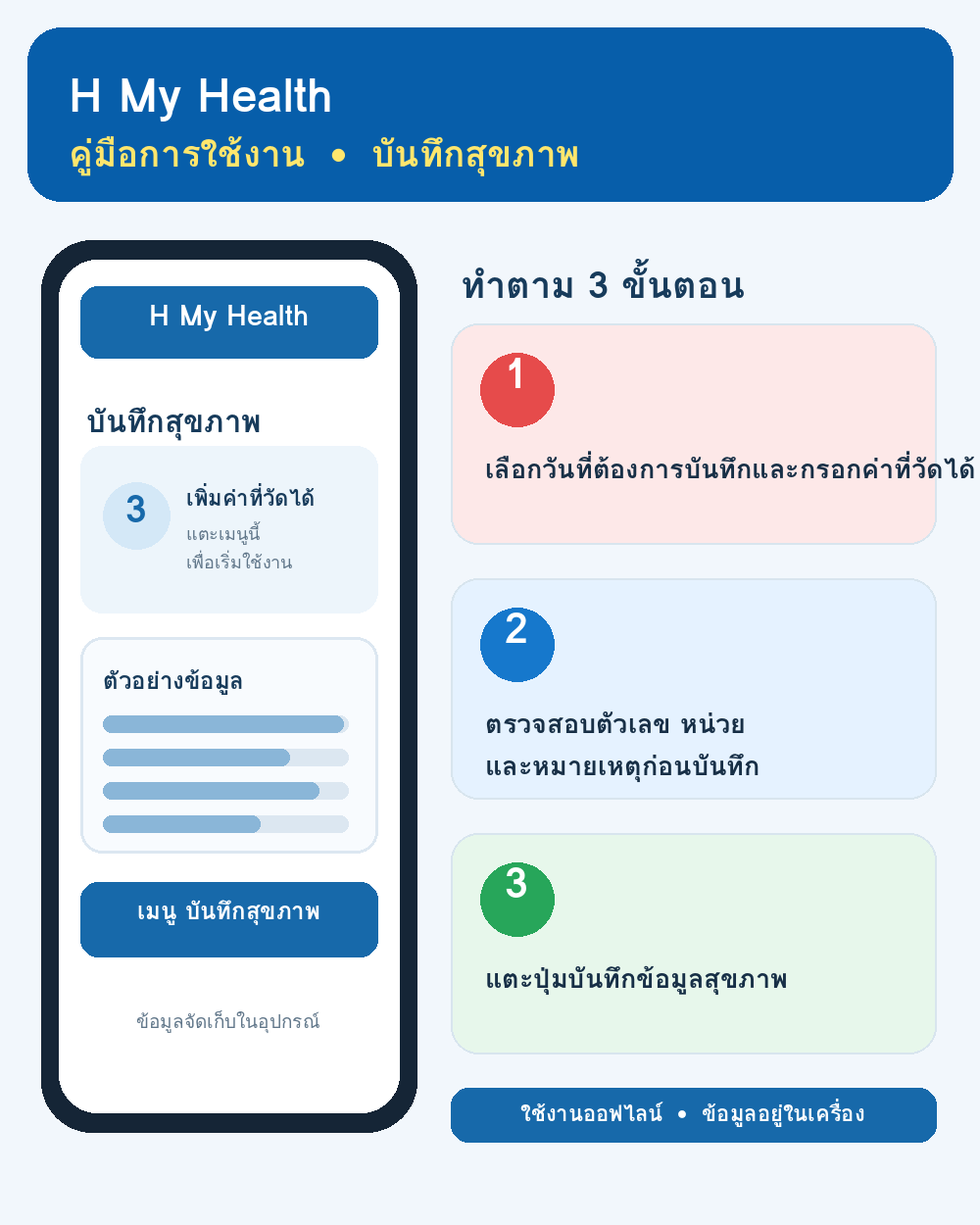
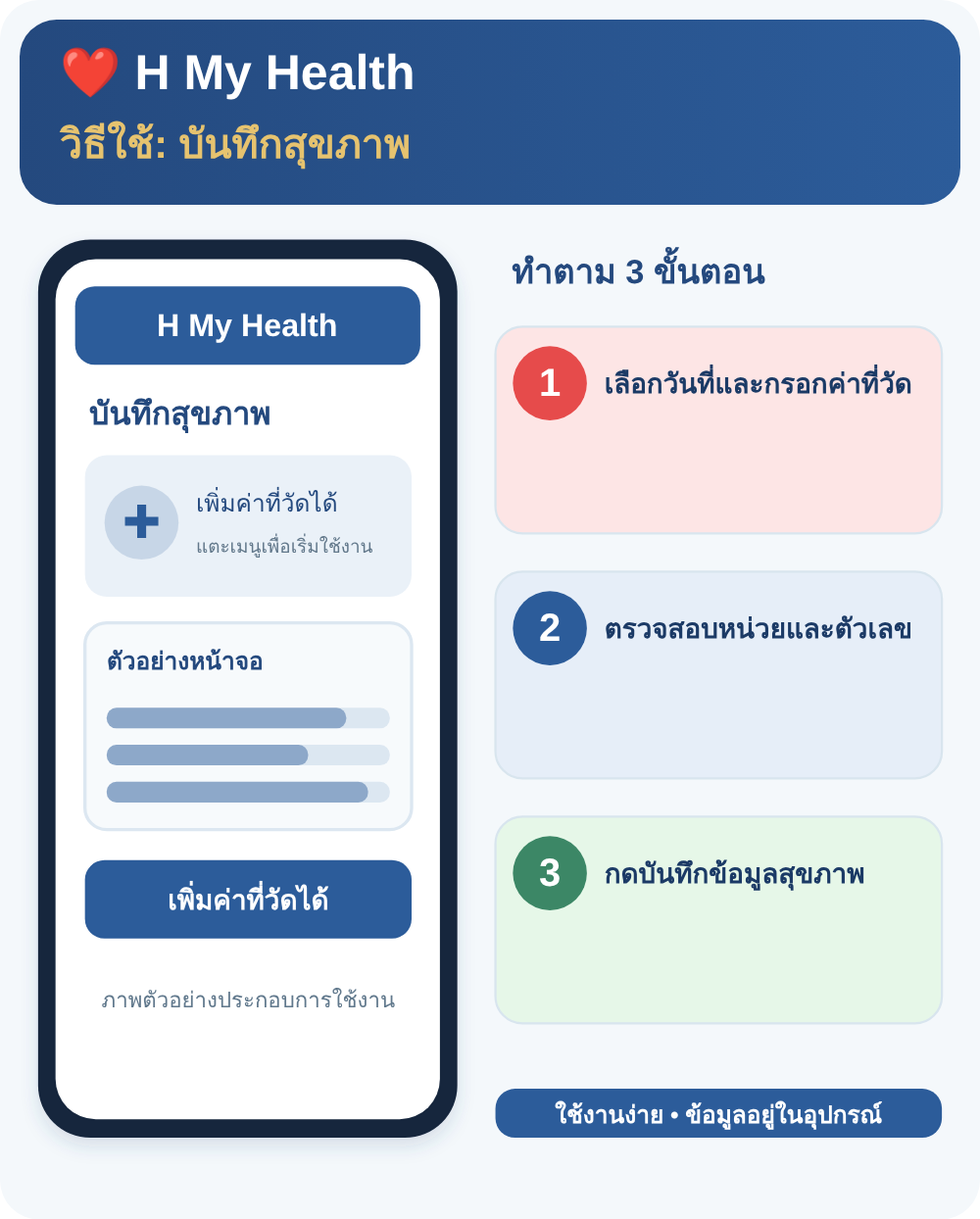
Add files via upload

diff --git a/index.html b/index.html
@@ -1,16 +1,16 @@
 <!doctype html>
-<html lang="th"><head><meta charset="utf-8"><meta name="viewport" content="width=device-width,initial-scale=1,maximum-scale=1">
-<meta name="theme-color" content="#0868c8"><meta name="mobile-web-app-capable" content="yes"><meta name="apple-mobile-web-app-capable" content="yes"><meta name="apple-mobile-web-app-status-bar-style" content="default"><meta name="apple-mobile-web-app-title" content="H My Health"><link rel="manifest" href="./manifest.webmanifest"><link rel="icon" type="image/svg+xml" href="./icon.svg"><link rel="icon" type="image/png" sizes="64x64" href="./favicon-64.png"><link rel="apple-touch-icon" sizes="180x180" href="./apple-touch-icon.png"><title>H My Health</title>
+<html lang="th"><head><meta charset="utf-8"><meta name="viewport" content="width=device-width,initial-scale=1,viewport-fit=cover">
+<meta name="theme-color" content="#24497e"><meta name="mobile-web-app-capable" content="yes"><meta name="apple-mobile-web-app-capable" content="yes"><meta name="apple-mobile-web-app-status-bar-style" content="black-translucent"><meta name="apple-mobile-web-app-title" content="H My Health"><link rel="manifest" href="./manifest.webmanifest"><link rel="icon" type="image/svg+xml" href="./icon.svg"><link rel="icon" type="image/png" sizes="64x64" href="./favicon-64.png"><link rel="apple-touch-icon" sizes="180x180" href="./apple-touch-icon.png"><title>H My Health</title>
 <style>
-*{box-sizing:border-box}body{margin:0;background:#f2f6fb;color:#172536;font-family:Arial,sans-serif;font-size:19px}
-header{background:#0868c8;color:white;padding:20px 18px 18px;border-radius:0 0 22px 22px}
+*{box-sizing:border-box}body{margin:0;background:#f4f8fb;color:#172536;font-family:Arial,sans-serif;font-size:19px}
+header{background:#2c5c9a;color:white;padding:20px 18px 18px;border-radius:0 0 22px 22px}
 h1{font-size:27px;margin:0 0 5px}header p{margin:0;font-size:19px;font-weight:700;line-height:1.4}.header-date{padding-top:5px}
 main{padding:14px;max-width:650px;margin:auto}.date{background:#e4f7e7;padding:15px;border-radius:16px;font-weight:bold;margin-bottom:12px}
 .card{background:white;border-radius:17px;padding:15px;margin:11px 0;box-shadow:0 2px 7px #17324d12}
 .row{display:flex;align-items:center;justify-content:space-between;gap:8px}.label{font-size:18px;font-weight:bold}.value{font-size:30px;font-weight:bold;margin-top:5px}
 .sub{font-size:15px;color:#586779}.tag{font-size:15px;padding:5px 9px;border-radius:9px;background:#eaf2ff}
 button{border:0;border-radius:14px;padding:15px 18px;font-size:20px;font-weight:bold;cursor:pointer}
-.primary{background:#0ab64b;color:white;width:100%;margin:8px 0}.blue{background:#0868c8;color:white}.light{background:#e8eef6;color:#172536}
+.primary{background:#3c8766;color:white;width:100%;margin:8px 0}.blue{background:#2c5c9a;color:white}.light{background:#e8eef6;color:#172536}
 nav{display:flex;gap:8px;margin-top:12px}nav button{flex:1;font-size:16px;padding:12px 4px}
 input,select{width:100%;font-size:20px;padding:13px;border:2px solid #d7e0eb;border-radius:12px;margin:6px 0 13px;background:white}
 label{font-weight:bold;display:block;margin-top:8px}.hidden{display:none}.alert{background:#fff0f0;border-left:7px solid #e53935}.ok{color:#16833d}.warn{color:#c36a00}.bad{color:#c62828}
@@ -26,7 +26,7 @@ canvas{width:100%;height:175px;display:block;background:#fff;border:1px solid #e
 @media print{header,nav,.no-print,button{display:none!important}body{background:#fff;font-size:13px}main{max-width:none;padding:0}.card{box-shadow:none;border:1px solid #ddd;break-inside:avoid}#reportView{display:block!important}.hidden{display:none!important}.report-grid{grid-template-columns:repeat(3,minmax(0,1fr))}canvas{max-height:150px}}
 
 /* One-page A4 clinician summary */
-.a4-head{display:flex;justify-content:space-between;gap:12px;align-items:flex-start;border-bottom:2px solid #1d5f9f;padding-bottom:7px;margin-bottom:9px}
+.a4-head{display:flex;justify-content:space-between;gap:12px;align-items:flex-start;border-bottom:2px solid #24497e;padding-bottom:7px;margin-bottom:9px}
 .a4-head h2{font-size:21px;margin:0 0 3px}
 .a4-meta{font-size:11px;color:#536273;text-align:right}
 .a4-stats{display:grid;grid-template-columns:repeat(3,minmax(0,1fr));gap:7px;margin:8px 0}
@@ -67,7 +67,7 @@ canvas{width:100%;height:175px;display:block;background:#fff;border:1px solid #e
 .metric-box .metric-unit{font-size:13px;font-weight:500}
 .metric-bp{background:#fff0f0;border-color:#e34b4b;color:#922626}
 .metric-pulse-bp{background:#fff4e6;border-color:#ed922d;color:#8a4b08}
-.metric-spo{background:#eaf4ff;border-color:#3185d6;color:#15528a}
+.metric-spo{background:#eaf4ff;border-color:#3185d6;color:#24497e}
 .metric-pulse-ox{background:#f1edff;border-color:#8064cf;color:#4e3a91}
 .metric-glucose{background:#fff8dc;border-color:#d3a51d;color:#74570a}
 .metric-temp{background:#e9f8ef;border-color:#39a66a;color:#17663a}
@@ -76,15 +76,15 @@ canvas{width:100%;height:175px;display:block;background:#fff;border:1px solid #e
 @media(max-width:390px){.history-metrics{grid-template-columns:1fr}.metric-box .metric-value{font-size:23px}}
 
 /* Professional dashboard refresh v4 */
-:root{--navy:#102a43;--blue:#1769aa;--teal:#0f8b8d;--bg:#f4f7fb;--line:#e4ebf2;--muted:#64748b}
+:root{--navy:#102a43;--blue:#2c5c9a;--teal:#0f8b8d;--bg:#f4f7fb;--line:#e4ebf2;--muted:#64748b}
 body{background:var(--bg);color:var(--navy);font-family:system-ui,-apple-system,"Segoe UI",Tahoma,sans-serif;font-size:17px;line-height:1.5}
-header{background:linear-gradient(125deg,#123b63 0%,#1769aa 58%,#168b91 100%);padding:22px 18px 20px;border-radius:0 0 24px 24px;box-shadow:0 8px 24px #123b6322}
+header{background:linear-gradient(125deg,#123b63 0%,#2c5c9a 58%,#3a7a93 100%);padding:22px 18px 20px;border-radius:0 0 24px 24px;box-shadow:0 8px 24px #123b6322}
 header h1{font-size:25px;letter-spacing:.1px}header p{font-size:14px;font-weight:500;opacity:.9}
 main{max-width:760px;padding:16px 15px 28px}
 nav{position:sticky;top:0;z-index:20;max-width:760px;margin:0 auto;padding:10px 14px;background:#f4f7fbef;backdrop-filter:blur(12px);border-bottom:1px solid #dce5ef;gap:7px;box-shadow:0 4px 14px #18344b0a}
 nav button{font-size:14px;padding:10px 7px;border-radius:12px;white-space:nowrap;min-height:42px}
 @media(max-width:520px){nav{gap:4px;padding:8px 6px}nav button{font-size:11px;padding:9px 3px;min-width:0}}
-nav button.blue{background:#1769aa;color:white;box-shadow:0 3px 9px #1769aa30}
+nav button.blue{background:#2c5c9a;color:white;box-shadow:0 3px 9px #2c5c9a30}
 nav button.light{background:white;color:#36536d;border:1px solid #dce5ef}
 .card{border:1px solid #e7edf3;border-radius:19px;padding:16px;margin:12px 0;box-shadow:0 5px 18px rgba(24,52,75,.055)}
 #home{padding-top:2px}
@@ -101,14 +101,14 @@ nav button.light{background:white;color:#36536d;border:1px solid #dce5ef}
 #home>.card:nth-of-type(6){border-top:4px solid #32a36a}
 .home-metrics{display:grid;grid-template-columns:repeat(2,minmax(0,1fr));gap:11px;margin:12px 0}
 .home-metrics .card{margin:0}
-.home-section-title{font-size:18px;font-weight:800;color:#173d5c;margin:19px 2px 8px}
+.home-section-title{font-size:18px;font-weight:800;color:#24497e;margin:19px 2px 8px}
 .home-actions{display:grid;grid-template-columns:1fr 1fr;gap:10px;margin:14px 0}
 .home-actions button{margin:0!important;min-height:52px;font-size:16px;padding:12px;border-radius:14px}
 .primary{background:linear-gradient(120deg,#0b9b70,#13ad83);box-shadow:0 5px 12px #0b9b7026}
-.blue{background:#1769aa}
+.blue{background:#2c5c9a}
 button{font-family:inherit;font-size:17px;border-radius:13px}
 input,select,textarea{font-family:inherit;font-size:18px;border:1.5px solid #d5e0ea;border-radius:13px}
-h2{font-size:21px;color:#173d5c}
+h2{font-size:21px;color:#24497e}
 .tag{background:#edf4fa;color:#49647c;font-size:12px;font-weight:700}
 .sub,.small{color:#687d90}
 #alerts{font-size:14px;line-height:1.55}
@@ -118,15 +118,15 @@ h2{font-size:21px;color:#173d5c}
 
 
 /* v5 focused forms and report layout */
-.page-intro{padding:7px 3px 12px}.page-intro .eyebrow{font-size:11px;letter-spacing:1.5px;font-weight:800;color:#16818b}.page-intro h2{font-size:24px;margin:3px 0 2px}.page-intro p{font-size:14px;color:#6a7d90;margin:0}
+.page-intro{padding:7px 3px 12px}.page-intro .eyebrow{font-size:11px;letter-spacing:1.5px;font-weight:800;color:#a9822f}.page-intro h2{font-size:24px;margin:3px 0 2px}.page-intro p{font-size:14px;color:#6a7d90;margin:0}
 .form-card{background:#fff;border:1px solid #e2eaf1;border-radius:18px;padding:17px;margin:12px 0;box-shadow:0 4px 15px rgba(24,52,75,.045)}
-.form-title{display:flex;align-items:center;gap:12px;margin-bottom:14px}.form-title h3,.report-controls h3,.report-section h3{font-size:17px;color:#173d5c;margin:0}.form-title p{font-size:13px;color:#738497;margin:2px 0 0}.form-icon{width:43px;height:43px;border-radius:14px;display:grid;place-items:center;background:#edf5fb;font-size:22px;flex:0 0 auto}
+.form-title{display:flex;align-items:center;gap:12px;margin-bottom:14px}.form-title h3,.report-controls h3,.report-section h3{font-size:17px;color:#24497e;margin:0}.form-title p{font-size:13px;color:#738497;margin:2px 0 0}.form-icon{width:43px;height:43px;border-radius:14px;display:grid;place-items:center;background:#edf5fb;font-size:22px;flex:0 0 auto}
 .bp-form{border-top:4px solid #df7777}.oxygen-form{border-top:4px solid #4d9bd0}.glucose-form{border-top:4px solid #d5ad3f}.temp-form{border-top:4px solid #45a879}
 .field-grid{display:grid;grid-template-columns:repeat(2,minmax(0,1fr));gap:2px 12px}.full-field{grid-column:1/-1}
 .form-card label{font-size:14px;color:#344e65;margin-top:5px}.form-card label small{font-weight:500;color:#7b8da0}.form-card input,.form-card textarea{font-size:17px;padding:13px;margin:6px 0 10px;border:1.5px solid #d6e1eb;background:#fbfdff}.form-card textarea{width:100%;resize:vertical;line-height:1.5}.form-card input:focus,.form-card textarea:focus{outline:3px solid #dceeff;border-color:#4d91c8}
 .entry-submit{margin:16px 0 28px}.entry-submit .primary{min-height:54px;font-size:17px}.entry-submit .small{text-align:center;margin-top:10px}
-.report-controls{padding:17px}.report-controls h3{margin-bottom:8px}.report-controls label{font-size:14px}.report-controls input{font-size:17px}.report-section{margin:19px 0}.report-section h3{margin:0 0 10px}.report-grid{gap:10px}.report-tile{border:1px solid #e4ebf2;background:#f8fbfe;padding:14px;border-radius:15px}.report-tile span{font-size:13px}.report-tile b{font-size:21px;color:#173d5c}.history-item{background:#f8fbfe;border:1px solid #e7edf3;border-radius:13px;padding:13px;margin:9px 0;line-height:1.7;font-size:14px;overflow-wrap:anywhere}
-.trend-details{background:#fff;border:1px solid #e2eaf1;border-radius:17px;padding:15px;margin:18px 0}.trend-details summary{font-size:16px;font-weight:800;color:#1769aa;cursor:pointer;padding:3px}.trend-card{background:#fbfdff;border:1px solid #e8eef4;border-radius:13px;padding:12px;margin:10px 0}.trend-card b{font-size:14px;color:#35536f}.trend-card canvas{margin-top:8px;height:150px}
+.report-controls{padding:17px}.report-controls h3{margin-bottom:8px}.report-controls label{font-size:14px}.report-controls input{font-size:17px}.report-section{margin:19px 0}.report-section h3{margin:0 0 10px}.report-grid{gap:10px}.report-tile{border:1px solid #e4ebf2;background:#f8fbfe;padding:14px;border-radius:15px}.report-tile span{font-size:13px}.report-tile b{font-size:21px;color:#24497e}.history-item{background:#f8fbfe;border:1px solid #e7edf3;border-radius:13px;padding:13px;margin:9px 0;line-height:1.7;font-size:14px;overflow-wrap:anywhere}
+.trend-details{background:#fff;border:1px solid #e2eaf1;border-radius:17px;padding:15px;margin:18px 0}.trend-details summary{font-size:16px;font-weight:800;color:#2c5c9a;cursor:pointer;padding:3px}.trend-card{background:#fbfdff;border:1px solid #e8eef4;border-radius:13px;padding:12px;margin:10px 0}.trend-card b{font-size:14px;color:#35536f}.trend-card canvas{margin-top:8px;height:150px}
 @media(max-width:420px){.field-grid{gap:0 8px}.form-card{padding:14px}.page-intro h2{font-size:22px}.report-grid{gap:8px}.report-tile{padding:11px}.report-tile b{font-size:18px}.trend-card canvas{height:130px}}
 @media print{.page-intro,.report-controls,.report-section,.trend-details{display:none!important}}
 /* v7 readable settings and developer page */
@@ -134,7 +134,7 @@ h2{font-size:21px;color:#173d5c}
 .settings-card{background:#fff;border:1px solid #e2eaf1;border-radius:18px;padding:16px;margin:12px 0;box-shadow:0 4px 15px rgba(24,52,75,.045)}
 .settings-title{display:flex;align-items:center;gap:11px;margin-bottom:12px}
 .settings-icon{width:42px;height:42px;display:grid;place-items:center;border-radius:13px;background:#edf5fb;font-size:21px;flex:0 0 auto}
-.settings-title h3{font-size:16px;margin:0;color:#173d5c}.settings-title p{font-size:12px;color:#738497;margin:2px 0 0}
+.settings-title h3{font-size:16px;margin:0;color:#24497e}.settings-title p{font-size:12px;color:#738497;margin:2px 0 0}
 .settings-grid{display:grid;grid-template-columns:repeat(2,minmax(0,1fr));gap:2px 12px}
 .settings-field label{font-size:13px;color:#344e65;margin-top:6px}.settings-field input{font-size:17px;padding:12px;margin:5px 0 9px;background:#fbfdff}
 .settings-hint{font-size:13px;line-height:1.55;color:#687d90;background:#f5f8fb;border-radius:11px;padding:10px 12px;margin:7px 0 0}
@@ -142,8 +142,8 @@ h2{font-size:21px;color:#173d5c}
 .permission-state{display:flex;align-items:center;gap:9px;padding:11px 12px;border-radius:12px;background:#f4f8fc;font-size:14px;color:#36536d;margin:10px 0}
 .permission-dot{width:10px;height:10px;border-radius:50%;background:#d69b2c;flex:0 0 auto}.permission-dot.on{background:#16a36a}
 .developer-card{overflow:hidden;text-align:center;padding:24px 18px;background:linear-gradient(145deg,#fff 0%,#eff7ff 100%);border:1px solid #dceaf7;border-radius:21px;box-shadow:0 5px 18px rgba(24,52,75,.06);margin:12px 0}
-.developer-avatar{width:76px;height:76px;border-radius:24px;margin:0 auto 13px;display:grid;place-items:center;background:linear-gradient(135deg,#1769aa,#168b91);color:#fff;font-size:34px;font-weight:800;box-shadow:0 7px 17px #1769aa30}
-.developer-name{font-size:22px;font-weight:850;color:#173d5c;margin:0 0 6px}.developer-role{display:inline-block;padding:6px 13px;border-radius:30px;background:#e5f2fb;color:#17608f;font-size:14px;font-weight:750;margin:4px 0 12px}
+.developer-avatar{width:76px;height:76px;border-radius:24px;margin:0 auto 13px;display:grid;place-items:center;background:linear-gradient(135deg,#2c5c9a,#3a7a93);color:#fff;font-size:34px;font-weight:800;box-shadow:0 7px 17px #2c5c9a30}
+.developer-name{font-size:22px;font-weight:850;color:#24497e;margin:0 0 6px}.developer-role{display:inline-block;padding:6px 13px;border-radius:30px;background:#e5f2fb;color:#24497e;font-size:14px;font-weight:750;margin:4px 0 12px}
 .developer-unit{font-size:16px;line-height:1.6;color:#526b80;font-weight:650}.developer-note{font-size:13px;color:#7b8da0;margin-top:20px;border-top:1px solid #e1eaf2;padding-top:13px}
 @media(max-width:420px){.settings-card{padding:14px}.settings-grid{gap:0 8px}.settings-field label{font-size:12px}.developer-card{padding:21px 14px}}
 
@@ -153,12 +153,12 @@ h2{font-size:21px;color:#173d5c}
 .med-editor{background:#f6f9fc;border:1px solid #e1eaf2;border-radius:15px;padding:14px;margin-top:12px}
 .med-fields{display:grid;grid-template-columns:1fr 1fr;gap:8px}.med-fields .wide{grid-column:1/-1}
 .med-list{display:flex;flex-direction:column;gap:10px;margin-top:12px}.med-item{border:1px solid #e1eaf2;border-radius:15px;padding:13px;background:#fff}
-.med-item-head{display:flex;justify-content:space-between;gap:8px;align-items:flex-start}.med-item h4{margin:0;color:#173d5c;font-size:17px}.med-time{display:inline-flex;background:#eaf4ff;color:#15528a;border-radius:9px;padding:5px 9px;margin:6px 5px 0 0;font-size:14px;font-weight:700}
+.med-item-head{display:flex;justify-content:space-between;gap:8px;align-items:flex-start}.med-item h4{margin:0;color:#24497e;font-size:17px}.med-time{display:inline-flex;background:#eaf4ff;color:#24497e;border-radius:9px;padding:5px 9px;margin:6px 5px 0 0;font-size:14px;font-weight:700}
 .med-actions{display:flex;gap:7px;margin-top:9px}.med-actions button{font-size:13px;padding:8px 11px}.med-empty{padding:15px;text-align:center;background:#f5f8fc;border-radius:12px;color:#64748b}
 .report-reading{background:#fff;border:1px solid #e2eaf1;border-radius:16px;padding:14px;margin:10px 0;box-shadow:0 3px 12px rgba(24,52,75,.04)}
-.report-reading-head{display:flex;justify-content:space-between;align-items:center;gap:8px;flex-wrap:wrap;margin-bottom:10px;font-weight:800;color:#173d5c}
+.report-reading-head{display:flex;justify-content:space-between;align-items:center;gap:8px;flex-wrap:wrap;margin-bottom:10px;font-weight:800;color:#24497e}
 .report-reading-grid{display:grid;grid-template-columns:repeat(2,minmax(0,1fr));gap:8px}
-.report-value{padding:10px;border-radius:12px;background:#f3f7fb;min-width:0}.report-value b{display:block;font-size:22px;color:#173d5c;overflow-wrap:anywhere}.report-value span{font-size:13px;color:#64748b}
+.report-value{padding:10px;border-radius:12px;background:#f3f7fb;min-width:0}.report-value b{display:block;font-size:22px;color:#24497e;overflow-wrap:anywhere}.report-value span{font-size:13px;color:#64748b}
 @media(max-width:390px){.med-fields,.report-reading-grid{grid-template-columns:1fr}.med-fields .wide{grid-column:auto}}
 
 
@@ -171,17 +171,90 @@ h2{font-size:21px;color:#173d5c}
 .install-dialog h2{margin:0 0 8px;font-size:22px}.install-dialog p{margin:6px 0 14px;line-height:1.55;color:#536779}
 .install-actions{display:grid;gap:9px}.install-actions button{width:100%;min-height:48px;font-weight:800}.install-later{background:#eef3f8;color:#30475d}
 .install-badge{font-size:36px;margin-bottom:5px}.install-help-steps{background:#f1f7fc;border-radius:14px;padding:12px;margin:10px 0;font-size:14px;line-height:1.6}
-.guide-grid{display:grid;grid-template-columns:1fr;gap:14px}.guide-card{background:#fff;border:1px solid #dce7f1;border-radius:20px;padding:16px}.guide-card h3{margin:4px 0 8px;color:#173d5c}.guide-card img{display:block;width:100%;height:auto;max-height:none;object-fit:contain;background:#f2f7fc;border-radius:14px}.guide-card ol{padding-left:22px;color:#40566b;line-height:1.65}.appt-item{background:#fff;border:1px solid #dce7f1;border-radius:15px;padding:13px}.appt-item h4{margin:0 0 6px;color:#173d5c}.appt-meta{font-size:14px;color:#526b80;line-height:1.6}
+.guide-grid{display:grid;grid-template-columns:1fr;gap:14px}.guide-card{background:#fff;border:1px solid #dce7f1;border-radius:20px;padding:16px}.guide-card h3{margin:4px 0 8px;color:#24497e}.guide-card img{display:block;width:100%;height:auto;max-height:none;object-fit:contain;background:#f2f7fc;border-radius:14px}.guide-card ol{padding-left:22px;color:#40566b;line-height:1.65}.appt-item{background:#fff;border:1px solid #dce7f1;border-radius:15px;padding:13px}.appt-item h4{margin:0 0 6px;color:#24497e}.appt-meta{font-size:14px;color:#526b80;line-height:1.6}
 
 #healthAlertModal{display:none;position:fixed;inset:0;z-index:9999;background:rgba(12,28,45,.62);padding:18px;align-items:center;justify-content:center}
 #healthAlertModal.open{display:flex}.health-alert-box{width:min(100%,520px);max-height:85vh;overflow:auto;background:#fff;border-radius:22px;padding:24px;box-shadow:0 18px 55px #0005;border-top:7px solid #d94b45;text-align:center}.health-alert-box h2{color:#a52d2d;font-size:25px}.health-alert-box p{font-size:18px;line-height:1.6;color:#34465a;text-align:left}.health-alert-box button{width:100%;margin-top:10px}
 #appUpdateModal{display:none;position:fixed;inset:0;z-index:10001;background:rgba(12,28,45,.62);padding:18px;align-items:center;justify-content:center}
-#appUpdateModal.open{display:flex}.app-update-box{width:min(100%,480px);background:#fff;border-radius:22px;padding:24px;box-shadow:0 18px 55px #0005;text-align:center}.app-update-box h2{color:#155b91}.app-update-box p{line-height:1.6;color:#43566a}.app-update-box button{width:100%;margin-top:9px}
+#appUpdateModal.open{display:flex}.app-update-box{width:min(100%,480px);background:#fff;border-radius:22px;padding:24px;box-shadow:0 18px 55px #0005;text-align:center}.app-update-box h2{color:#24497e}.app-update-box p{line-height:1.6;color:#43566a}.app-update-box button{width:100%;margin-top:9px}
 .update-status{font-size:14px;line-height:1.55;color:#52677b;background:#f1f7fc;border-radius:12px;padding:11px 13px;margin:10px 0}.update-status.ok{background:#eaf8ef;color:#176b3a}.update-status.warn{background:#fff5e8;color:#8a4b08}.update-menu-btn{white-space:nowrap}
+
+/* ===== V12 : navy / blue / gold / green, bottom tab bar ===== */
+:root{--navy:#24497e;--blue:#2c5c9a;--teal:#3a7a93;--gold:#cfa551;--green:#3c8766;--bg:#f4f8fb}
+body{background:var(--bg);-webkit-text-size-adjust:100%}
+header{background:linear-gradient(135deg,#1f3f70 0%,#24497e 55%,#2c5c9a 100%);border-radius:0 0 24px 24px;border-bottom:3px solid var(--gold);padding:calc(14px + env(safe-area-inset-top)) 18px 16px}
+.brand{display:flex;align-items:center;gap:12px}.brand img{width:50px;height:50px;flex:0 0 auto;filter:drop-shadow(0 3px 6px rgba(0,0,0,.25))}
+header h1{font-size:25px;margin:0 0 2px;letter-spacing:.2px}header .header-date{font-size:15px;font-weight:600;opacity:.92;margin:0}
+main{padding-bottom:128px}
+.blue{background:var(--blue)}.primary{background:var(--green)}.light{background:#e7eef6;color:var(--navy)}
+.page-intro .eyebrow{color:#a9822f}.page-intro h2{color:var(--navy)}
+.card{box-shadow:0 3px 12px rgba(36,73,126,.08)}
+.date{background:#e6f1ec;color:var(--green)}
+input:focus,select:focus,textarea:focus{outline:3px solid rgba(207,165,81,.45);border-color:var(--gold)}
+/* bottom tab bar */
+nav.tabbar{position:fixed;top:auto;left:0;right:0;bottom:0;max-width:none;border-bottom:0;backdrop-filter:none;-webkit-backdrop-filter:none;z-index:50;display:flex;align-items:flex-end;justify-content:space-around;gap:2px;margin:0;background:#fff;border-radius:24px 24px 0 0;box-shadow:0 -8px 28px rgba(36,73,126,.14);padding:8px max(8px,calc((100% - 650px)/2)) calc(8px + env(safe-area-inset-bottom))}
+nav.tabbar button{position:relative;flex:1 1 0;min-width:0;display:flex;flex-direction:column;align-items:center;justify-content:center;gap:3px;background:transparent;color:#5c6f86;border-radius:16px;padding:8px 2px 7px;font-size:13px;font-weight:700;line-height:1.1}
+nav.tabbar button svg{width:26px;height:26px;fill:none;stroke:currentColor;stroke-width:2;stroke-linecap:round;stroke-linejoin:round}
+nav.tabbar button svg .f{fill:currentColor;stroke:none}
+nav.tabbar button{border:0;min-height:0;white-space:normal;box-shadow:none}
+nav.tabbar button.active{background:var(--blue);color:#fff;box-shadow:0 3px 9px rgba(44,92,154,.3)}
+nav.tabbar button.active::after{content:"";position:absolute;bottom:4px;width:22px;height:3px;border-radius:3px;background:var(--gold)}
+nav.tabbar button.active span{margin-bottom:5px}
+nav.tabbar .tab-fab{background:transparent!important;color:var(--navy);overflow:visible;padding-top:0}
+nav.tabbar .tab-fab::after{display:none}
+nav.tabbar .tab-fab .fab{width:64px;height:64px;border-radius:50%;margin-top:-34px;display:grid;place-items:center;background:linear-gradient(145deg,#ecd08a,#cfa551 60%,#b98a32);border:5px solid #fff;box-shadow:0 8px 18px rgba(185,138,50,.45);color:var(--navy)}
+nav.tabbar .tab-fab .fab svg{width:30px;height:30px;stroke-width:3.2}
+nav.tabbar .tab-fab.active .fab{box-shadow:0 8px 22px rgba(185,138,50,.7)}
+nav.tabbar .tab-fab.active span{color:var(--navy)}
+.dot{position:absolute;top:5px;left:calc(50% + 8px);width:11px;height:11px;border-radius:50%;background:#e53935;border:2px solid #fff;display:none}
+.has-update .dot{display:block}
+/* more sheet */
+#moreSheet{display:none;position:fixed;inset:0;z-index:9000;background:rgba(14,30,52,.5);align-items:flex-end;justify-content:center}
+#moreSheet.open{display:flex}
+.more-box{width:min(100%,650px);background:#fff;border-radius:26px 26px 0 0;padding:10px 16px calc(96px + env(safe-area-inset-bottom));box-shadow:0 -10px 40px rgba(0,0,0,.25)}
+.more-grip{width:44px;height:5px;border-radius:5px;background:#d3dce8;margin:2px auto 12px}
+.more-box h3{margin:0 4px 8px;font-size:19px;color:var(--navy)}
+.more-item{display:flex;align-items:center;gap:14px;width:100%;text-align:left;background:#f4f8fb;color:var(--navy);border-radius:16px;padding:13px 14px;margin:8px 0;font-size:18px;border:1px solid #e1eaf3}
+.more-item .mi{width:42px;height:42px;border-radius:13px;display:grid;place-items:center;background:#fff;font-size:22px;box-shadow:0 2px 6px rgba(36,73,126,.1);flex:0 0 auto}
+.more-item small{display:block;font-size:13px;font-weight:500;color:#667a90;margin-top:2px}
+.new-badge{display:none;background:#e53935;color:#fff;font-size:12px;font-weight:800;border-radius:20px;padding:3px 9px;margin-left:8px;vertical-align:middle}
+.has-update .new-badge{display:inline-block}
+/* update banner */
+#updateBanner{display:none;align-items:center;gap:10px;margin:12px 14px 0;padding:11px 13px;border-radius:16px;background:#fff7e0;border:2px solid var(--gold);color:#6b4a07;max-width:622px}
+@media(min-width:650px){#updateBanner{margin-left:auto;margin-right:auto}}
+.has-update #updateBanner{display:flex}
+#updateBanner .ub-text{flex:1;font-size:15px;font-weight:700;line-height:1.35;cursor:pointer}
+#updateBanner button{padding:10px 14px;font-size:15px;border-radius:12px;background:var(--navy);color:#fff;flex:0 0 auto}
+/* developer page */
+.dev-v12{padding:0;background:#fff;border:1px solid #dfe8f2;border-radius:24px;overflow:hidden;box-shadow:0 6px 22px rgba(36,73,126,.1)}
+.dev-hero{position:relative;height:300px;background:linear-gradient(180deg,#dfeaf6 0%,#f4f8fb 100%);border-bottom:5px solid var(--gold);display:flex;align-items:flex-end;justify-content:center;overflow:hidden}
+.dev-ring{position:absolute;left:50%;top:50%;width:270px;height:270px;border-radius:50%;transform:translate(-50%,-50%);border:3px dashed rgba(207,165,81,.8)}
+.dev-hero img{position:relative;height:285px;width:auto;max-width:100%;object-fit:contain;margin-bottom:-4px}
+.dev-body{padding:22px 18px 22px;text-align:center}
+.dev-v12 .developer-name{font-size:27px;color:var(--navy);margin:0 0 10px}
+.dev-v12 .developer-role{background:linear-gradient(135deg,#24497e,#2c5c9a);color:#fff;font-size:17px;padding:10px 24px;border-radius:30px;box-shadow:0 6px 14px rgba(36,73,126,.28);margin:0 0 18px}
+.dev-app{display:flex;align-items:center;gap:14px;text-align:left;background:#f4f8fb;border:1px solid #dfe8f2;border-radius:20px;padding:14px;margin:6px 0 16px}
+.dev-app .dev-app-ico{width:52px;height:52px;border-radius:16px;background:#fff;display:grid;place-items:center;font-size:28px;box-shadow:0 2px 8px rgba(36,73,126,.1)}
+.dev-app small{display:block;font-size:14px;color:#667a90}.dev-app b{font-size:22px;color:var(--navy)}
+.dev-v12 .developer-note{border-top:1px solid #e1eaf2;padding-top:14px;margin-top:6px;font-size:15px;line-height:1.55;color:#5a6e84}
+.dev-v12 .developer-note b{color:var(--navy);font-size:17px}
+#updateSettingsCard h3{color:var(--navy)}
+/* update modal accents */
+.app-update-box h2{color:var(--navy)}#applyAppUpdate{background:var(--navy);color:#fff}
+@media print{nav.tabbar,#updateBanner,#moreSheet{display:none!important}main{padding-bottom:0!important}}
+/* print fix: the A4 summary lives inside .report-controls, which older print CSS hid -> blank page */
+@media print{
+ #reportView .report-controls{display:block!important;border:0!important;box-shadow:none!important;background:none!important;padding:0!important;margin:0!important}
+ #reportView .report-controls>*:not(#a4Report){display:none!important}
+ #reportView .report-controls #a4Report{display:block!important}
+ @page{size:A4;margin:10mm}
+}
 </style></head><body>
 <div id="appUpdateModal" class="no-print" role="dialog" aria-modal="true" aria-labelledby="appUpdateTitle"><div class="app-update-box"><div style="font-size:38px">🔄</div><h2 id="appUpdateTitle">มีเวอร์ชันใหม่ของ H My Health</h2><p>อัปเดตแอปได้ทันทีโดยไม่ต้องลบหรือติดตั้งใหม่ ข้อมูลสุขภาพที่บันทึกไว้ในเครื่องจะไม่ถูกลบ</p><button id="applyAppUpdate" class="blue" type="button">อัปเดตตอนนี้</button><button id="laterAppUpdate" class="light" type="button">ไว้ภายหลัง</button></div></div>
-<header><h1>❤ H My Health</h1><p id="headerDate" class="header-date"></p></header>
-<nav><button class="blue" onclick="show('home')">หน้าหลัก</button><button class="light" onclick="show('profile')">ผู้ใช้งาน</button><button class="light" onclick="show('history')">ประวัติ</button><button class="light" onclick="show('settings')">ตั้งค่า</button><button class="light" onclick="show('appointments')">นัดตรวจ</button><button class="light" onclick="show('guide')">วิธีใช้งาน</button><button class="light" onclick="show('developer')">ผู้พัฒนา</button></nav>
+<header><div class="brand"><img src="./icon.svg" alt="" width="50" height="50"><div><h1>H My Health</h1><p id="headerDate" class="header-date"></p></div></div></header>
+<div id="updateBanner" class="no-print" role="status"><span class="ub-text" onclick="openUpdateModal()">🔄 มีเวอร์ชันใหม่ของ H My Health พร้อมอัปเดต</span><button type="button" id="bannerApply" onclick="openUpdateModal()">อัปเดต</button></div>
+<nav class="tabbar no-print" aria-label="เมนูหลัก"><button type="button" id="tab-home" onclick="show('home')"><svg viewBox="0 0 24 24"><path d="M3 11.5 12 4l9 7.5"/><path d="M5.5 10v9.5h13V10"/><path d="M10 19.5v-5h4v5"/></svg><span>หน้าหลัก</span></button><button type="button" id="tab-history" onclick="show('history')"><svg viewBox="0 0 24 24"><circle cx="12" cy="12" r="9"/><path d="M12 7v5l3.5 2"/></svg><span>ประวัติ</span></button><button type="button" id="tab-entry" class="tab-fab" onclick="show('entry')"><i class="fab"><svg viewBox="0 0 24 24"><path d="M12 5v14M5 12h14"/></svg></i><span>บันทึก</span></button><button type="button" id="tab-report" onclick="show('reportView')"><svg viewBox="0 0 24 24"><path d="M6 3h8l4 4v14H6z"/><path d="M14 3v4h4"/><path d="M9 18v-3M12 18v-5M15 18v-2"/></svg><span>รายงาน</span></button><button type="button" id="tab-more" onclick="openMore()"><svg viewBox="0 0 24 24"><circle class="f" cx="5" cy="12" r="2"/><circle class="f" cx="12" cy="12" r="2"/><circle class="f" cx="19" cy="12" r="2"/></svg><span>เพิ่มเติม</span><b class="dot" id="moreDot"></b></button></nav>
+<div id="moreSheet" class="no-print" onclick="if(event.target===this)closeMore()"><div class="more-box" role="dialog" aria-label="เมนูเพิ่มเติม"><div class="more-grip"></div><h3>เมนูเพิ่มเติม</h3><button type="button" class="more-item" onclick="show('profile')"><span class="mi">👤</span><span>ผู้ใช้งาน<small>ข้อมูลส่วนตัว ยา ข้อมูลฉุกเฉิน</small></span></button><button type="button" class="more-item" onclick="show('appointments')"><span class="mi">📅</span><span>นัดตรวจ<small>วัน เวลา และการเตือนล่วงหน้า</small></span></button><button type="button" class="more-item" onclick="show('settings')"><span class="mi">⚙</span><span>ตั้งค่า<small>เกณฑ์เฝ้าระวัง PIN สำรองข้อมูล</small></span></button><button type="button" class="more-item" onclick="show('guide')"><span class="mi">📖</span><span>วิธีใช้งาน<small>คู่มือพร้อมภาพประกอบ</small></span></button><button type="button" class="more-item" onclick="show('developer')"><span class="mi">🧑⚕</span><span>ผู้พัฒนา<span class="new-badge">ใหม่</span><small>ข้อมูลผู้จัดทำและตรวจสอบอัปเดต</small></span></button></div></div>
 <div id="installPanel" class="card no-print" style="margin:12px 14px;padding:13px;border:2px solid #b8d8f5;display:none">
  <div style="font-weight:800;font-size:18px">📲 ติดตั้ง H My Health ลงเครื่อง</div>
  <div id="installHelp" class="small" style="margin:5px 0 9px">ติดตั้งเพื่อเพิ่มไอคอนไว้ที่หน้าจอ แล้วแตะเข้าใช้งานได้สะดวก</div>
@@ -346,11 +419,18 @@ h2{font-size:21px;color:#173d5c}
 <h3>รายการนัดหมาย</h3><div id="appointmentList" class="med-list"></div><button class="light" style="width:100%" onclick="show('home')">กลับหน้าหลัก</button>
 </section>
 <section id="guide" class="hidden"><div class="page-intro"><span class="eyebrow">USER GUIDE</span><h2>วิธีการใช้งาน H My Health</h2><p>แต่ละเมนูมีภาพประกอบแยกและขั้นตอนการใช้งาน</p></div><div id="guideCards" class="guide-grid"></div><button class="light" style="width:100%;margin-top:12px" onclick="show('home')">กลับหน้าหลัก</button></section>
-\n<section id="developer" class="hidden developer-page">
- <div class="page-intro"><span class="eyebrow">APPLICATION INFORMATION</span><h2>ผู้พัฒนาแอปพลิเคชัน</h2><p>ข้อมูลผู้จัดทำและหน่วยงาน</p></div>
- <div class="developer-card"><div class="developer-avatar">T</div><p class="developer-name">นายแทน นามวงค์</p><div class="developer-role">ผู้ช่วยพยาบาล</div><div class="developer-unit">หอผู้ป่วยโรคหลอดเลือดสมอง</div><div class="developer-note">H My Health<br>แอปพลิเคชันสำหรับบันทึกและติดตามข้อมูลสุขภาพส่วนบุคคล</div></div>
- <div class="security-card" id="updateSettingsCard"><h3>🔄 อัปเดต H My Health</h3><p>แอปจะตรวจสอบเวอร์ชันใหม่ให้อัตโนมัติเมื่อเปิดใช้งานและเมื่อเชื่อมต่ออินเทอร์เน็ต หากพบเวอร์ชันใหม่จะแสดงหน้าต่างแจ้งเตือน ข้อมูลสุขภาพในอุปกรณ์จะไม่ถูกลบ</p><div id="appUpdateStatus" class="update-status" role="status" aria-live="polite">ระบบตรวจสอบเวอร์ชันใหม่อัตโนมัติ</div><button class="blue" style="width:100%;min-height:48px" type="button" onclick="checkAppUpdate(true)">ตรวจสอบเวอร์ชันใหม่</button></div>
- <button class="light" style="width:100%" onclick="show('home')">กลับหน้าหลัก</button>
+<section id="developer" class="hidden developer-page">
+ <div class="page-intro"><span class="eyebrow">APPLICATION INFORMATION</span><h2>ผู้พัฒนาแอปพลิเคชัน</h2><p>ข้อมูลผู้จัดทำ</p></div>
+ <div class="developer-card dev-v12">
+  <div class="dev-hero"><div class="dev-ring"></div><img src="./developer-character.png" alt="ผู้ช่วยพยาบาลผู้พัฒนาแอป"></div>
+  <div class="dev-body">
+   <p class="developer-name">นายแทน นามวงค์</p><div class="developer-role">ผู้ช่วยพยาบาล</div>
+   <div class="dev-app"><span class="dev-app-ico">📱</span><div><small>แอปพลิเคชัน</small><b>H My Health</b></div></div>
+   <div class="developer-note"><b>H My Health · เวอร์ชัน 12</b><br>แอปพลิเคชันสำหรับบันทึกและติดตามข้อมูลสุขภาพส่วนบุคคล</div>
+  </div>
+ </div>
+ <div class="security-card" id="updateSettingsCard"><h3>🔄 อัปเดต H My Health<span class="new-badge">ใหม่</span></h3><p>แอปจะตรวจสอบเวอร์ชันใหม่ให้อัตโนมัติเมื่อเปิดใช้งานและเมื่อเชื่อมต่ออินเทอร์เน็ต หากพบเวอร์ชันใหม่จะแสดงแถบแจ้งเตือนทุกหน้าและหน้าต่างให้เลือกอัปเดต ข้อมูลสุขภาพในอุปกรณ์จะไม่ถูกลบ</p><div id="appUpdateStatus" class="update-status" role="status" aria-live="polite">ระบบตรวจสอบเวอร์ชันใหม่อัตโนมัติ</div><button class="blue" style="width:100%;min-height:48px" type="button" onclick="checkAppUpdate(true)">ตรวจสอบเวอร์ชันใหม่</button></div>
+ <button class="light" style="width:100%;margin-top:10px" onclick="show('home')">กลับหน้าหลัก</button>
 </section>
 
 </main>
@@ -419,7 +499,9 @@ function save(){
 // Local-only backup, record editing and PIN protection
 function editRecord(id){const i=records.findIndex(r=>r.id===id);if(i<0)return;const r=records[i];const fields=[['sys','ความดันตัวบน'],['dia','ความดันตัวล่าง'],['pb','ชีพจร'],['sp','SpO₂'],['resp','อัตราการหายใจ'],['po','ชีพจรเดิมจากเครื่องปลายนิ้ว'],['gl','น้ำตาล'],['te','อุณหภูมิ'],['weight','น้ำหนัก'],['height','ส่วนสูง']];for(const [k,label] of fields){const v=prompt('แก้ไข'+label+' (เว้นว่างหากไม่มีค่า)',r[k]??'');if(v===null)return;r[k]=v.trim()===''?null:Number(v);if(r[k]!==null&&!Number.isFinite(r[k])){alert('กรุณากรอกเป็นตัวเลข');return;}}const note=prompt('แก้ไขหมายเหตุ',r.note||'');if(note===null)return;r.note=note;records[i]=r;localStorage.setItem('records',JSON.stringify(records));renderHistory();renderHome();alert('แก้ไขรายการแล้ว');}
 function deleteRecord(id){if(!confirm('ยืนยันลบรายการสุขภาพนี้? การลบไม่สามารถย้อนกลับได้'))return;records=records.filter(r=>r.id!==id);localStorage.setItem('records',JSON.stringify(records));renderHistory();renderHome();}
-function exportBackup(){const keys=['records','profile','medicationItems','medicationLog','allergyHistory','limits','appointments'];const data={app:'H My Health',version:11,createdAt:new Date().toISOString(),data:{}};keys.forEach(k=>{const v=localStorage.getItem(k);if(v!==null)data.data[k]=JSON.parse(v)});const blob=new Blob([JSON.stringify(data,null,2)],{type:'application/json'});const url=URL.createObjectURL(blob);const a=document.createElement('a');a.href=url;a.download='MyHealthRecord-Backup-'+new Date().toISOString().slice(0,10)+'.json';a.click();setTimeout(()=>URL.revokeObjectURL(url),1000);}
+async function exportBackup(){const keys=['records','profile','medicationItems','medicationLog','allergyHistory','limits','appointments'];const data={app:'H My Health',version:12,createdAt:new Date().toISOString(),data:{}};keys.forEach(k=>{const v=localStorage.getItem(k);if(v!==null)data.data[k]=JSON.parse(v)});const json=JSON.stringify(data,null,2);const name='MyHealthRecord-Backup-'+new Date().toISOString().slice(0,10)+'.json';
+ try{const file=new File([json],name,{type:'application/json'});if(navigator.canShare&&navigator.canShare({files:[file]})){await navigator.share({files:[file],title:'สำรองข้อมูล H My Health'});return;}}catch(e){if(e&&e.name==='AbortError')return;}
+ const blob=new Blob([json],{type:'application/json'});const url=URL.createObjectURL(blob);const a=document.createElement('a');a.href=url;a.download=name;document.body.appendChild(a);a.click();a.remove();setTimeout(()=>URL.revokeObjectURL(url),1000);}
 function restoreBackup(ev){const file=ev.target.files&&ev.target.files[0];if(!file)return;const reader=new FileReader();reader.onload=()=>{try{const b=JSON.parse(reader.result);if(!b||b.app!=='H My Health'||!b.data||!Array.isArray(b.data.records))throw new Error('รูปแบบไฟล์ไม่ถูกต้อง');if(!confirm('กู้คืนข้อมูลจากไฟล์นี้หรือไม่? ข้อมูลปัจจุบันในอุปกรณ์จะถูกแทนที่'))return;['records','profile','medicationItems','medicationLog','allergyHistory','limits','appointments'].forEach(k=>{if(Object.prototype.hasOwnProperty.call(b.data,k))localStorage.setItem(k,JSON.stringify(b.data[k]));else localStorage.removeItem(k)});records=JSON.parse(localStorage.getItem('records')||'[]');alert('กู้คืนข้อมูลเรียบร้อยแล้ว');location.reload();}catch(e){alert('ไม่สามารถกู้คืนได้: '+e.message)}finally{ev.target.value='';}};reader.readAsText(file);}
 async function pinHash(pin,salt){const bytes=new TextEncoder().encode(salt+':'+pin);if(window.crypto&&crypto.subtle){const digest=await crypto.subtle.digest('SHA-256',bytes);return Array.from(new Uint8Array(digest)).map(x=>x.toString(16).padStart(2,'0')).join('')}return btoa(unescape(encodeURIComponent(salt+':'+pin)));}
 async function setupPin(){const pin=prompt('ตั้งรหัส PIN 6 หลัก (กด ยกเลิก หากไม่ต้องการใช้)');if(pin===null)return;if(!/^\d{6}$/.test(pin)){alert('กรุณาตั้ง PIN เป็นตัวเลข 6 หลัก');return;}const again=prompt('กรอกรหัส PIN ซ้ำอีกครั้ง');if(again!==pin){alert('รหัส PIN ไม่ตรงกัน');return;}const salt=window.crypto&&window.crypto.getRandomValues?Array.from(window.crypto.getRandomValues(new Uint8Array(16))).map(x=>x.toString(16).padStart(2,'0')).join(''):String(Date.now());localStorage.setItem('appPin',JSON.stringify({salt,hash:await pinHash(pin,salt)}));alert('ตั้ง PIN แล้ว จะขอ PIN เมื่อเปิดแอปครั้งถัดไป');}
@@ -506,9 +588,11 @@ function buildA4Report(){
   : '<b>รายการวัดในวันที่เลือก:</b> ไม่มีข้อมูล';
 }
 function printReport(){
+ if($('reportView').classList.contains('hidden'))show('reportView');
  renderReport();
  buildA4Report();
-
+ // wait one frame so canvases/layout are painted before the print dialog opens
+ setTimeout(()=>window.print(),400);
 }
 
 
@@ -635,10 +719,15 @@ function setAppUpdateStatus(message,kind=''){
 }
 function showPendingAppUpdate(worker){
  if(!worker)return;pendingAppWorker=worker;
- setAppUpdateStatus('พบเวอร์ชันใหม่แล้ว กด “อัปเดตตอนนี้” ในหน้าต่างแจ้งเตือนเพื่อใช้งานเวอร์ชันล่าสุด','warn');
- const modal=$('appUpdateModal');if(modal)modal.classList.add('open');
+ document.body.classList.add('has-update');
+ setAppUpdateStatus('พบเวอร์ชันใหม่แล้ว กด “อัปเดตตอนนี้” เพื่อใช้งานเวอร์ชันล่าสุด','warn');
+ // Modal: once per session automatically, always when the user checks manually. The banner stays until updated.
+ let shown=false;try{shown=sessionStorage.getItem('hmy-update-modal')==='1';}catch(e){}
+ if(window.__manualUpdate||!shown){openUpdateModal();try{sessionStorage.setItem('hmy-update-modal','1');}catch(e){}}
 }
+function openUpdateModal(){const modal=$('appUpdateModal');if(modal)modal.classList.add('open');}
 async function checkAppUpdate(manual=false){
+ window.__manualUpdate=manual;
  if(!('serviceWorker' in navigator)){setAppUpdateStatus('เบราว์เซอร์นี้ไม่รองรับการอัปเดตอัตโนมัติ','warn');return;}
  if(!navigator.onLine){setAppUpdateStatus('ขณะนี้ออฟไลน์ กรุณาเชื่อมต่ออินเทอร์เน็ตเพื่อตรวจสอบเวอร์ชันใหม่','warn');return;}
  setAppUpdateStatus('กำลังตรวจสอบเวอร์ชันล่าสุด…');
@@ -668,7 +757,7 @@ async function checkAppUpdate(manual=false){
  }
 }
 function applyPendingAppUpdate(){
- if(pendingAppWorker){pendingAppWorker.postMessage('SKIP_WAITING');const b=$('applyAppUpdate');if(b){b.textContent='กำลังอัปเดต…';b.disabled=true;}setAppUpdateStatus('กำลังติดตั้งเวอร์ชันใหม่…');}
+ if(pendingAppWorker){pendingAppWorker.postMessage('SKIP_WAITING');const bb=$('bannerApply');if(bb){bb.textContent='กำลังอัปเดต…';bb.disabled=true;}const b=$('applyAppUpdate');if(b){b.textContent='กำลังอัปเดต…';b.disabled=true;}setAppUpdateStatus('กำลังติดตั้งเวอร์ชันใหม่…');}
 }
 $('applyAppUpdate')?.addEventListener('click',applyPendingAppUpdate);
 $('laterAppUpdate')?.addEventListener('click',()=>{$('appUpdateModal')?.classList.remove('open');});
@@ -701,5 +790,20 @@ if('serviceWorker' in navigator && (location.protocol==='https:'||location.hostn
  });
 }
 
+
+/* ===== V12 additions ===== */
+function openMore(){$('moreSheet').classList.add('open');}
+function closeMore(){const s=$('moreSheet');if(s)s.classList.remove('open');}
+function syncTabs(id){
+ const map={home:'home',history:'history',entry:'entry',reportView:'report'};
+ const active='tab-'+(map[id]||'more');
+ document.querySelectorAll('nav.tabbar button').forEach(b=>b.classList.toggle('active',b.id===active));
+}
+(function(){
+ const base=show;
+ window.show=function(id){base(id);closeMore();syncTabs(id);try{window.scrollTo({top:0})}catch(e){}};
+ syncTabs('home');
+ if(navigator.storage&&navigator.storage.persist){navigator.storage.persist().catch(()=>{});}
+})();
 </script>
 </body></html>

diff --git a/service-worker.js b/service-worker.js
@@ -1,8 +1,9 @@
 // H My Health — offline-first app shell with user-approved in-place updates.
-const CACHE_NAME = 'h-my-health-v11-5-icon-navy-gold';
+const CACHE_NAME = 'h-my-health-v12-2-navy-gold-icon-h';
 const APP_ROOT = new URL('./', self.registration.scope);
 const CORE_PATHS = [
- './','./index.html','./manifest.webmanifest','./icon-192.png','./icon-512.png','./icon-maskable-512.png','./apple-touch-icon.png','./favicon-64.png','./icon.svg',
+ './','./index.html','./manifest.webmanifest','./icon-192.png','./icon-512.png','./icon-maskable-192.png','./icon-maskable-512.png','./apple-touch-icon.png','./favicon-64.png','./icon.svg','./developer-character.png',
+ './guide-home.png','./guide-profile.png','./guide-entry.png','./guide-reportView.png','./guide-history.png','./guide-settings.png','./guide-appointments.png','./guide-emergency.png','./guide-medication.png','./guide-developer.png',
  './guide-home.svg','./guide-profile.svg','./guide-entry.svg','./guide-reportView.svg',
  './guide-history.svg','./guide-settings.svg','./guide-appointments.svg',
  './guide-emergency.svg','./guide-medication.svg','./guide-developer.svg'
